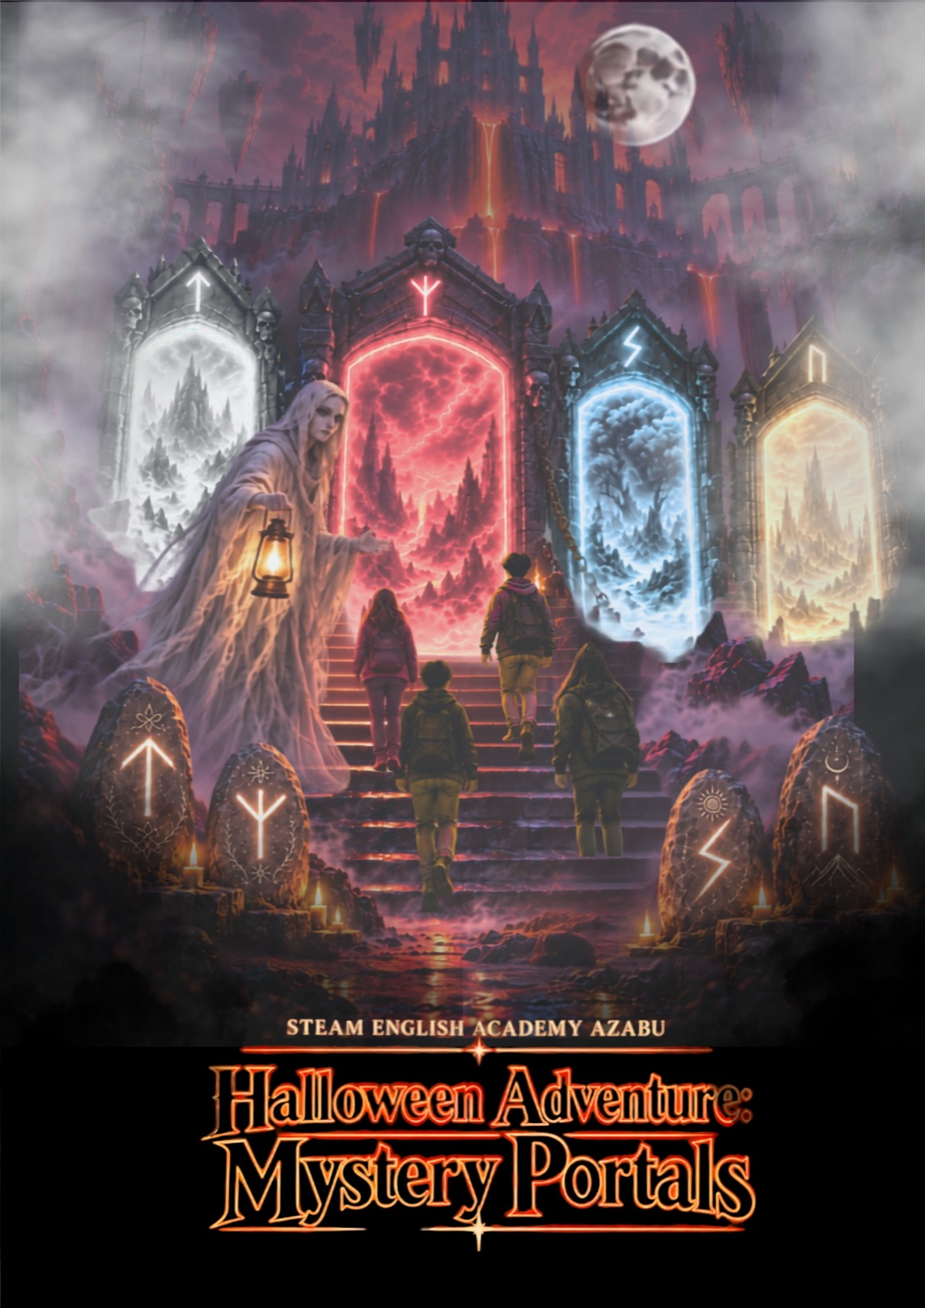
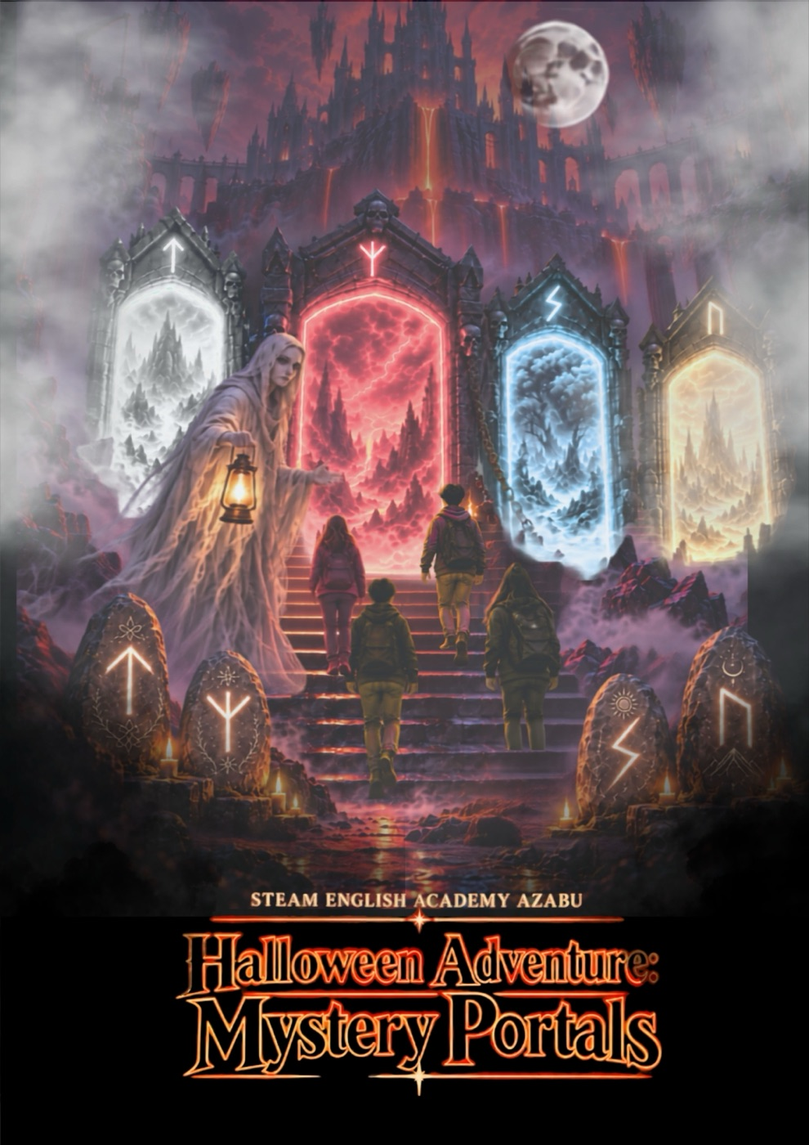
共有時の表示（OGP）を追加、書体の読み込みを削減、画像を軽量化

Changed region(s): [[0.2121, 0.7679, 0.8182, 0.9521], [0.4242, 0.7679, 0.4848, 0.7986], [0.7576, 0.6143, 0.7879, 0.645]]

diff --git a/docs/index.html b/docs/index.html
@@ -8,9 +8,17 @@
 <meta name="title-ja" content="REAL ACADEMY｜港区東麻布の英語教室・イギリス留学サポート">
 <meta name="title-en" content="REAL ACADEMY | English School & UK Study Support in Azabu, Tokyo">
 <meta name="description" content="麻布十番駅6番出口すぐ。STEAM English Academy、Scholars'、ボーディングスクール受験対策、イギリス留学総合サポートのREAL ACADEMY。">
+<meta property="og:type" content="website">
+<meta property="og:site_name" content="REAL ACADEMY">
+<meta property="og:locale" content="ja_JP">
+<meta property="og:title" content="REAL ACADEMY｜港区東麻布の英語教室・イギリス留学サポート">
+<meta property="og:description" content="麻布十番駅6番出口すぐ。STEAM English Academy、Scholars'、ボーディングスクール受験対策、イギリス留学総合サポートのREAL ACADEMY。">
+<meta property="og:url" content="https://noaruft.github.io/realacademy/">
+<meta property="og:image" content="https://noaruft.github.io/realacademy/assets/og-image.jpg">
+<meta name="twitter:card" content="summary_large_image">
 <link rel="preconnect" href="https://fonts.googleapis.com">
 <link rel="preconnect" href="https://fonts.gstatic.com" crossorigin>
-<link href="https://fonts.googleapis.com/css2?family=Cinzel:wght@500&family=Cormorant+Garamond:ital,wght@0,400;0,500;0,600;1,400;1,500&family=Jost:wght@300;400;500&family=Libre+Baskerville:ital,wght@0,400;0,700;1,400&family=Playfair+Display:ital,wght@1,400&family=Shippori+Mincho:wght@500;600&family=Zen+Kaku+Gothic+New:wght@400;500&display=swap" rel="stylesheet">
+<link href="https://fonts.googleapis.com/css2?family=Cinzel:wght@500&family=Cormorant+Garamond:ital,wght@0,400;0,500;1,400;1,500&family=Jost:wght@400;500&family=Libre+Baskerville&family=Playfair+Display:ital,wght@1,400&family=Shippori+Mincho:wght@500&family=Zen+Kaku+Gothic+New:wght@400;500&display=swap" rel="stylesheet">
 <link rel="stylesheet" href="assets/style.css?v=cf14d603">
 <link rel="icon" type="image/png" href="assets/favicon.png">
 <link rel="apple-touch-icon" href="assets/apple-touch-icon.png">
@@ -60,7 +68,7 @@
       </div>
       <div class="hero-visual reveal">
         <div data-photo="1" class="ph ph-main" data-label="Photo — classroom"></div>
-        <div data-photo="2" class="ph has-photo ph-sub warm" data-label="ロゴ（校章）" style="background:url('assets/photos/2.png') center / cover no-repeat;"></div>
+        <div data-photo="2" class="ph has-photo ph-sub warm" data-label="ロゴ（校章）" style="background:url('assets/photos/2.webp') center / cover no-repeat;"></div>
       </div>
     </div>
   </section>

diff --git a/docs/advanced.html b/docs/advanced.html
@@ -8,9 +8,17 @@
 <meta name="title-ja" content="Advanced Class（CEFR B1を目指す）｜Scholars'｜REAL ACADEMY">
 <meta name="title-en" content="Advanced Class (aiming for CEFR B1) | Scholars' | REAL ACADEMY">
 <meta name="description" content="英語で、知を深める。A2〜B1レベルの英文を読み解き、自分の意見を論理的に表現するScholars'のAdvanced Class。CEFR B1（英検2級相当）を目指すクラスです。">
+<meta property="og:type" content="website">
+<meta property="og:site_name" content="REAL ACADEMY">
+<meta property="og:locale" content="ja_JP">
+<meta property="og:title" content="Advanced Class（CEFR B1を目指す）｜Scholars'｜REAL ACADEMY">
+<meta property="og:description" content="英語で、知を深める。A2〜B1レベルの英文を読み解き、自分の意見を論理的に表現するScholars'のAdvanced Class。CEFR B1（英検2級相当）を目指すクラスです。">
+<meta property="og:url" content="https://noaruft.github.io/realacademy/advanced.html">
+<meta property="og:image" content="https://noaruft.github.io/realacademy/assets/og-image.jpg">
+<meta name="twitter:card" content="summary_large_image">
 <link rel="preconnect" href="https://fonts.googleapis.com">
 <link rel="preconnect" href="https://fonts.gstatic.com" crossorigin>
-<link href="https://fonts.googleapis.com/css2?family=Cinzel:wght@500&family=Cormorant+Garamond:ital,wght@0,400;0,500;0,600;1,400;1,500&family=Jost:wght@300;400;500&family=Libre+Baskerville:ital,wght@0,400;0,700;1,400&family=Playfair+Display:ital,wght@1,400&family=Shippori+Mincho:wght@500;600&family=Zen+Kaku+Gothic+New:wght@400;500&display=swap" rel="stylesheet">
+<link href="https://fonts.googleapis.com/css2?family=Cinzel:wght@500&family=Cormorant+Garamond:ital,wght@0,400;0,500;1,400;1,500&family=Jost:wght@400;500&family=Libre+Baskerville&family=Playfair+Display:ital,wght@1,400&family=Shippori+Mincho:wght@500&family=Zen+Kaku+Gothic+New:wght@400;500&display=swap" rel="stylesheet">
 <link rel="stylesheet" href="assets/style.css?v=cf14d603">
 <link rel="icon" type="image/png" href="assets/favicon.png">
 <link rel="apple-touch-icon" href="assets/apple-touch-icon.png">

diff --git a/docs/academic.html b/docs/academic.html
@@ -8,9 +8,17 @@
 <meta name="title-ja" content="Academic Class（CEFR A2を目指す）｜Scholars'｜REAL ACADEMY">
 <meta name="title-en" content="Academic Class (aiming for CEFR A2) | Scholars' | REAL ACADEMY">
 <meta name="description" content="英語を、深く学ぶ。語彙・文法・読解を体系的に学び、英語を仕組みから理解するScholars'のAcademic Class。CEFR A2（英検準2級相当）を目指すクラスです。">
+<meta property="og:type" content="website">
+<meta property="og:site_name" content="REAL ACADEMY">
+<meta property="og:locale" content="ja_JP">
+<meta property="og:title" content="Academic Class（CEFR A2を目指す）｜Scholars'｜REAL ACADEMY">
+<meta property="og:description" content="英語を、深く学ぶ。語彙・文法・読解を体系的に学び、英語を仕組みから理解するScholars'のAcademic Class。CEFR A2（英検準2級相当）を目指すクラスです。">
+<meta property="og:url" content="https://noaruft.github.io/realacademy/academic.html">
+<meta property="og:image" content="https://noaruft.github.io/realacademy/assets/og-image.jpg">
+<meta name="twitter:card" content="summary_large_image">
 <link rel="preconnect" href="https://fonts.googleapis.com">
 <link rel="preconnect" href="https://fonts.gstatic.com" crossorigin>
-<link href="https://fonts.googleapis.com/css2?family=Cinzel:wght@500&family=Cormorant+Garamond:ital,wght@0,400;0,500;0,600;1,400;1,500&family=Jost:wght@300;400;500&family=Libre+Baskerville:ital,wght@0,400;0,700;1,400&family=Playfair+Display:ital,wght@1,400&family=Shippori+Mincho:wght@500;600&family=Zen+Kaku+Gothic+New:wght@400;500&display=swap" rel="stylesheet">
+<link href="https://fonts.googleapis.com/css2?family=Cinzel:wght@500&family=Cormorant+Garamond:ital,wght@0,400;0,500;1,400;1,500&family=Jost:wght@400;500&family=Libre+Baskerville&family=Playfair+Display:ital,wght@1,400&family=Shippori+Mincho:wght@500&family=Zen+Kaku+Gothic+New:wght@400;500&display=swap" rel="stylesheet">
 <link rel="stylesheet" href="assets/style.css?v=cf14d603">
 <link rel="icon" type="image/png" href="assets/favicon.png">
 <link rel="apple-touch-icon" href="assets/apple-touch-icon.png">

diff --git a/docs/event-oxford-lse-2025.html b/docs/event-oxford-lse-2025.html
@@ -8,9 +8,17 @@
 <meta name="title-ja" content="特別対談：オックスフォード大学 & LSE 在籍生登壇｜イベント｜REAL ACADEMY">
 <meta name="title-en" content="Special Talk: Students from Oxford & LSE | Events | REAL ACADEMY">
 <meta name="description" content="特別対談：オックスフォード大学 & LSE 在籍生登壇（2025年12月20日（土）・REAL ACADEMY／STEAM English Academy 麻布校）のご案内。">
+<meta property="og:type" content="website">
+<meta property="og:site_name" content="REAL ACADEMY">
+<meta property="og:locale" content="ja_JP">
+<meta property="og:title" content="特別対談：オックスフォード大学 & LSE 在籍生登壇｜イベント｜REAL ACADEMY">
+<meta property="og:description" content="特別対談：オックスフォード大学 & LSE 在籍生登壇（2025年12月20日（土）・REAL ACADEMY／STEAM English Academy 麻布校）のご案内。">
+<meta property="og:url" content="https://noaruft.github.io/realacademy/event-oxford-lse-2025.html">
+<meta property="og:image" content="https://noaruft.github.io/realacademy/assets/og-image.jpg">
+<meta name="twitter:card" content="summary_large_image">
 <link rel="preconnect" href="https://fonts.googleapis.com">
 <link rel="preconnect" href="https://fonts.gstatic.com" crossorigin>
-<link href="https://fonts.googleapis.com/css2?family=Cinzel:wght@500&family=Cormorant+Garamond:ital,wght@0,400;0,500;0,600;1,400;1,500&family=Jost:wght@300;400;500&family=Libre+Baskerville:ital,wght@0,400;0,700;1,400&family=Playfair+Display:ital,wght@1,400&family=Shippori+Mincho:wght@500;600&family=Zen+Kaku+Gothic+New:wght@400;500&display=swap" rel="stylesheet">
+<link href="https://fonts.googleapis.com/css2?family=Cinzel:wght@500&family=Cormorant+Garamond:ital,wght@0,400;0,500;1,400;1,500&family=Jost:wght@400;500&family=Libre+Baskerville&family=Playfair+Display:ital,wght@1,400&family=Shippori+Mincho:wght@500&family=Zen+Kaku+Gothic+New:wght@400;500&display=swap" rel="stylesheet">
 <link rel="stylesheet" href="assets/style.css?v=cf14d603">
 <link rel="icon" type="image/png" href="assets/favicon.png">
 <link rel="apple-touch-icon" href="assets/apple-touch-icon.png">

diff --git a/docs/i-garten.html b/docs/i-garten.html
@@ -8,9 +8,17 @@
 <meta name="title-ja" content="i-GARTEN（年長〜小学生）｜STEAM English Academy｜REAL ACADEMY">
 <meta name="title-en" content="i-GARTEN (ages 5–12) | STEAM English Academy | REAL ACADEMY">
 <meta name="description" content="アルファベットの読み書きとフォニックスで英語の土台を。AR・VRを活用した体験型の学びで、年長〜小学生が楽しく能動的に学ぶi-GARTENコース。">
+<meta property="og:type" content="website">
+<meta property="og:site_name" content="REAL ACADEMY">
+<meta property="og:locale" content="ja_JP">
+<meta property="og:title" content="i-GARTEN（年長〜小学生）｜STEAM English Academy｜REAL ACADEMY">
+<meta property="og:description" content="アルファベットの読み書きとフォニックスで英語の土台を。AR・VRを活用した体験型の学びで、年長〜小学生が楽しく能動的に学ぶi-GARTENコース。">
+<meta property="og:url" content="https://noaruft.github.io/realacademy/i-garten.html">
+<meta property="og:image" content="https://noaruft.github.io/realacademy/assets/og-image.jpg">
+<meta name="twitter:card" content="summary_large_image">
 <link rel="preconnect" href="https://fonts.googleapis.com">
 <link rel="preconnect" href="https://fonts.gstatic.com" crossorigin>
-<link href="https://fonts.googleapis.com/css2?family=Cinzel:wght@500&family=Cormorant+Garamond:ital,wght@0,400;0,500;0,600;1,400;1,500&family=Jost:wght@300;400;500&family=Libre+Baskerville:ital,wght@0,400;0,700;1,400&family=Playfair+Display:ital,wght@1,400&family=Shippori+Mincho:wght@500;600&family=Zen+Kaku+Gothic+New:wght@400;500&display=swap" rel="stylesheet">
+<link href="https://fonts.googleapis.com/css2?family=Cinzel:wght@500&family=Cormorant+Garamond:ital,wght@0,400;0,500;1,400;1,500&family=Jost:wght@400;500&family=Libre+Baskerville&family=Playfair+Display:ital,wght@1,400&family=Shippori+Mincho:wght@500&family=Zen+Kaku+Gothic+New:wght@400;500&display=swap" rel="stylesheet">
 <link rel="stylesheet" href="assets/style.css?v=cf14d603">
 <link rel="icon" type="image/png" href="assets/favicon.png">
 <link rel="apple-touch-icon" href="assets/apple-touch-icon.png">

diff --git a/docs/april.html b/docs/april.html
@@ -8,9 +8,17 @@
 <meta name="title-ja" content="April（小学生〜高校生）｜STEAM English Academy｜REAL ACADEMY">
 <meta name="title-en" content="April (ages 6–18) | STEAM English Academy | REAL ACADEMY">
 <meta name="description" content="STEAMに準ずる120のトピックを英語「で」学ぶAprilコース。Project Based Learning、Reading→Speaking→Writing、CTP、家庭学習アプリi-Learning。">
+<meta property="og:type" content="website">
+<meta property="og:site_name" content="REAL ACADEMY">
+<meta property="og:locale" content="ja_JP">
+<meta property="og:title" content="April（小学生〜高校生）｜STEAM English Academy｜REAL ACADEMY">
+<meta property="og:description" content="STEAMに準ずる120のトピックを英語「で」学ぶAprilコース。Project Based Learning、Reading→Speaking→Writing、CTP、家庭学習アプリi-Learning。">
+<meta property="og:url" content="https://noaruft.github.io/realacademy/april.html">
+<meta property="og:image" content="https://noaruft.github.io/realacademy/assets/og-image.jpg">
+<meta name="twitter:card" content="summary_large_image">
 <link rel="preconnect" href="https://fonts.googleapis.com">
 <link rel="preconnect" href="https://fonts.gstatic.com" crossorigin>
-<link href="https://fonts.googleapis.com/css2?family=Cinzel:wght@500&family=Cormorant+Garamond:ital,wght@0,400;0,500;0,600;1,400;1,500&family=Jost:wght@300;400;500&family=Libre+Baskerville:ital,wght@0,400;0,700;1,400&family=Playfair+Display:ital,wght@1,400&family=Shippori+Mincho:wght@500;600&family=Zen+Kaku+Gothic+New:wght@400;500&display=swap" rel="stylesheet">
+<link href="https://fonts.googleapis.com/css2?family=Cinzel:wght@500&family=Cormorant+Garamond:ital,wght@0,400;0,500;1,400;1,500&family=Jost:wght@400;500&family=Libre+Baskerville&family=Playfair+Display:ital,wght@1,400&family=Shippori+Mincho:wght@500&family=Zen+Kaku+Gothic+New:wght@400;500&display=swap" rel="stylesheet">
 <link rel="stylesheet" href="assets/style.css?v=cf14d603">
 <link rel="icon" type="image/png" href="assets/favicon.png">
 <link rel="apple-touch-icon" href="assets/apple-touch-icon.png">

diff --git a/docs/boarding.html b/docs/boarding.html
@@ -8,9 +8,17 @@
 <meta name="title-ja" content="ボーディングスクール受験入学対策｜REAL ACADEMY">
 <meta name="title-en" content="Boarding School Entrance Prep | REAL ACADEMY">
 <meta name="description" content="国内外のボーディングスクール受験に向けて、UKiset・CAT4、面接、エッセイ対策を完全オーダーメイドのプライベートレッスンで。">
+<meta property="og:type" content="website">
+<meta property="og:site_name" content="REAL ACADEMY">
+<meta property="og:locale" content="ja_JP">
+<meta property="og:title" content="ボーディングスクール受験入学対策｜REAL ACADEMY">
+<meta property="og:description" content="国内外のボーディングスクール受験に向けて、UKiset・CAT4、面接、エッセイ対策を完全オーダーメイドのプライベートレッスンで。">
+<meta property="og:url" content="https://noaruft.github.io/realacademy/boarding.html">
+<meta property="og:image" content="https://noaruft.github.io/realacademy/assets/og-image.jpg">
+<meta name="twitter:card" content="summary_large_image">
 <link rel="preconnect" href="https://fonts.googleapis.com">
 <link rel="preconnect" href="https://fonts.gstatic.com" crossorigin>
-<link href="https://fonts.googleapis.com/css2?family=Cinzel:wght@500&family=Cormorant+Garamond:ital,wght@0,400;0,500;0,600;1,400;1,500&family=Jost:wght@300;400;500&family=Libre+Baskerville:ital,wght@0,400;0,700;1,400&family=Playfair+Display:ital,wght@1,400&family=Shippori+Mincho:wght@500;600&family=Zen+Kaku+Gothic+New:wght@400;500&display=swap" rel="stylesheet">
+<link href="https://fonts.googleapis.com/css2?family=Cinzel:wght@500&family=Cormorant+Garamond:ital,wght@0,400;0,500;1,400;1,500&family=Jost:wght@400;500&family=Libre+Baskerville&family=Playfair+Display:ital,wght@1,400&family=Shippori+Mincho:wght@500&family=Zen+Kaku+Gothic+New:wght@400;500&display=swap" rel="stylesheet">
 <link rel="stylesheet" href="assets/style.css?v=cf14d603">
 <link rel="icon" type="image/png" href="assets/favicon.png">
 <link rel="apple-touch-icon" href="assets/apple-touch-icon.png">

diff --git a/docs/scholars.html b/docs/scholars.html
@@ -8,9 +8,17 @@
 <meta name="title-ja" content="Scholars'｜REAL ACADEMY">
 <meta name="title-en" content="Scholars' | REAL ACADEMY">
 <meta name="description" content="英語を、学問する。バイリンガル講師のReading & Grammarとネイティブ講師のWriting & Speakingで、確かな英語力と論理的に考え表現する力を育てるScholars'（2027年度開講）。">
+<meta property="og:type" content="website">
+<meta property="og:site_name" content="REAL ACADEMY">
+<meta property="og:locale" content="ja_JP">
+<meta property="og:title" content="Scholars'｜REAL ACADEMY">
+<meta property="og:description" content="英語を、学問する。バイリンガル講師のReading & Grammarとネイティブ講師のWriting & Speakingで、確かな英語力と論理的に考え表現する力を育てるScholars'（2027年度開講）。">
+<meta property="og:url" content="https://noaruft.github.io/realacademy/scholars.html">
+<meta property="og:image" content="https://noaruft.github.io/realacademy/assets/og-image.jpg">
+<meta name="twitter:card" content="summary_large_image">
 <link rel="preconnect" href="https://fonts.googleapis.com">
 <link rel="preconnect" href="https://fonts.gstatic.com" crossorigin>
-<link href="https://fonts.googleapis.com/css2?family=Cinzel:wght@500&family=Cormorant+Garamond:ital,wght@0,400;0,500;0,600;1,400;1,500&family=Jost:wght@300;400;500&family=Libre+Baskerville:ital,wght@0,400;0,700;1,400&family=Playfair+Display:ital,wght@1,400&family=Shippori+Mincho:wght@500;600&family=Zen+Kaku+Gothic+New:wght@400;500&display=swap" rel="stylesheet">
+<link href="https://fonts.googleapis.com/css2?family=Cinzel:wght@500&family=Cormorant+Garamond:ital,wght@0,400;0,500;1,400;1,500&family=Jost:wght@400;500&family=Libre+Baskerville&family=Playfair+Display:ital,wght@1,400&family=Shippori+Mincho:wght@500&family=Zen+Kaku+Gothic+New:wght@400;500&display=swap" rel="stylesheet">
 <link rel="stylesheet" href="assets/style.css?v=cf14d603">
 <link rel="icon" type="image/png" href="assets/favicon.png">
 <link rel="apple-touch-icon" href="assets/apple-touch-icon.png">

diff --git a/docs/uk-study.html b/docs/uk-study.html
@@ -8,9 +8,17 @@
 <meta name="title-ja" content="イギリス留学総合サポート｜REAL ACADEMY">
 <meta name="title-en" content="UK Study Support | REAL ACADEMY">
 <meta name="description" content="学校選び・出願・英語力強化・エッセイや面接対策・合格まで。イギリスのボーディングスクール留学をワンストップでサポートします。">
+<meta property="og:type" content="website">
+<meta property="og:site_name" content="REAL ACADEMY">
+<meta property="og:locale" content="ja_JP">
+<meta property="og:title" content="イギリス留学総合サポート｜REAL ACADEMY">
+<meta property="og:description" content="学校選び・出願・英語力強化・エッセイや面接対策・合格まで。イギリスのボーディングスクール留学をワンストップでサポートします。">
+<meta property="og:url" content="https://noaruft.github.io/realacademy/uk-study.html">
+<meta property="og:image" content="https://noaruft.github.io/realacademy/assets/og-image.jpg">
+<meta name="twitter:card" content="summary_large_image">
 <link rel="preconnect" href="https://fonts.googleapis.com">
 <link rel="preconnect" href="https://fonts.gstatic.com" crossorigin>
-<link href="https://fonts.googleapis.com/css2?family=Cinzel:wght@500&family=Cormorant+Garamond:ital,wght@0,400;0,500;0,600;1,400;1,500&family=Jost:wght@300;400;500&family=Libre+Baskerville:ital,wght@0,400;0,700;1,400&family=Playfair+Display:ital,wght@1,400&family=Shippori+Mincho:wght@500;600&family=Zen+Kaku+Gothic+New:wght@400;500&display=swap" rel="stylesheet">
+<link href="https://fonts.googleapis.com/css2?family=Cinzel:wght@500&family=Cormorant+Garamond:ital,wght@0,400;0,500;1,400;1,500&family=Jost:wght@400;500&family=Libre+Baskerville&family=Playfair+Display:ital,wght@1,400&family=Shippori+Mincho:wght@500&family=Zen+Kaku+Gothic+New:wght@400;500&display=swap" rel="stylesheet">
 <link rel="stylesheet" href="assets/style.css?v=cf14d603">
 <link rel="icon" type="image/png" href="assets/favicon.png">
 <link rel="apple-touch-icon" href="assets/apple-touch-icon.png">

diff --git a/docs/news-uk-summer-2025.html b/docs/news-uk-summer-2025.html
@@ -8,9 +8,17 @@
 <meta name="title-ja" content="イギリスサマースクール2025のご案内｜お知らせ｜REAL ACADEMY">
 <meta name="title-en" content="UK Summer School 2025 | News | REAL ACADEMY">
 <meta name="description" content="イギリスの名門ボーディングスクールで開催するサマースクール2025（6〜18歳、1週間単位）のご案内。">
+<meta property="og:type" content="website">
+<meta property="og:site_name" content="REAL ACADEMY">
+<meta property="og:locale" content="ja_JP">
+<meta property="og:title" content="イギリスサマースクール2025のご案内｜お知らせ｜REAL ACADEMY">
+<meta property="og:description" content="イギリスの名門ボーディングスクールで開催するサマースクール2025（6〜18歳、1週間単位）のご案内。">
+<meta property="og:url" content="https://noaruft.github.io/realacademy/news-uk-summer-2025.html">
+<meta property="og:image" content="https://noaruft.github.io/realacademy/assets/og-image.jpg">
+<meta name="twitter:card" content="summary_large_image">
 <link rel="preconnect" href="https://fonts.googleapis.com">
 <link rel="preconnect" href="https://fonts.gstatic.com" crossorigin>
-<link href="https://fonts.googleapis.com/css2?family=Cinzel:wght@500&family=Cormorant+Garamond:ital,wght@0,400;0,500;0,600;1,400;1,500&family=Jost:wght@300;400;500&family=Libre+Baskerville:ital,wght@0,400;0,700;1,400&family=Playfair+Display:ital,wght@1,400&family=Shippori+Mincho:wght@500;600&family=Zen+Kaku+Gothic+New:wght@400;500&display=swap" rel="stylesheet">
+<link href="https://fonts.googleapis.com/css2?family=Cinzel:wght@500&family=Cormorant+Garamond:ital,wght@0,400;0,500;1,400;1,500&family=Jost:wght@400;500&family=Libre+Baskerville&family=Playfair+Display:ital,wght@1,400&family=Shippori+Mincho:wght@500&family=Zen+Kaku+Gothic+New:wght@400;500&display=swap" rel="stylesheet">
 <link rel="stylesheet" href="assets/style.css?v=cf14d603">
 <link rel="icon" type="image/png" href="assets/favicon.png">
 <link rel="apple-touch-icon" href="assets/apple-touch-icon.png">

diff --git a/docs/news-toefl-2025.html b/docs/news-toefl-2025.html
@@ -8,9 +8,17 @@
 <meta name="title-ja" content="第3回TOEFLテストのご案内｜お知らせ｜REAL ACADEMY">
 <meta name="title-en" content="TOEFL Primary / Junior tests 2025 | News | REAL ACADEMY">
 <meta name="description" content="STEAM English Academy 麻布校で実施するTOEFLテスト（第3回・第4回）のご案内。当校生徒以外でも受験可能です。">
+<meta property="og:type" content="website">
+<meta property="og:site_name" content="REAL ACADEMY">
+<meta property="og:locale" content="ja_JP">
+<meta property="og:title" content="第3回TOEFLテストのご案内｜お知らせ｜REAL ACADEMY">
+<meta property="og:description" content="STEAM English Academy 麻布校で実施するTOEFLテスト（第3回・第4回）のご案内。当校生徒以外でも受験可能です。">
+<meta property="og:url" content="https://noaruft.github.io/realacademy/news-toefl-2025.html">
+<meta property="og:image" content="https://noaruft.github.io/realacademy/assets/og-image.jpg">
+<meta name="twitter:card" content="summary_large_image">
 <link rel="preconnect" href="https://fonts.googleapis.com">
 <link rel="preconnect" href="https://fonts.gstatic.com" crossorigin>
-<link href="https://fonts.googleapis.com/css2?family=Cinzel:wght@500&family=Cormorant+Garamond:ital,wght@0,400;0,500;0,600;1,400;1,500&family=Jost:wght@300;400;500&family=Libre+Baskerville:ital,wght@0,400;0,700;1,400&family=Playfair+Display:ital,wght@1,400&family=Shippori+Mincho:wght@500;600&family=Zen+Kaku+Gothic+New:wght@400;500&display=swap" rel="stylesheet">
+<link href="https://fonts.googleapis.com/css2?family=Cinzel:wght@500&family=Cormorant+Garamond:ital,wght@0,400;0,500;1,400;1,500&family=Jost:wght@400;500&family=Libre+Baskerville&family=Playfair+Display:ital,wght@1,400&family=Shippori+Mincho:wght@500&family=Zen+Kaku+Gothic+New:wght@400;500&display=swap" rel="stylesheet">
 <link rel="stylesheet" href="assets/style.css?v=cf14d603">
 <link rel="icon" type="image/png" href="assets/favicon.png">
 <link rel="apple-touch-icon" href="assets/apple-touch-icon.png">

diff --git a/docs/event-winter-2023.html b/docs/event-winter-2023.html
@@ -8,9 +8,17 @@
 <meta name="title-ja" content="A MERRY HOHOHO! WINTER PROGRAM 2023 🎄｜イベント｜REAL ACADEMY">
 <meta name="title-en" content="A MERRY HOHOHO! WINTER PROGRAM 2023 🎄 | Events | REAL ACADEMY">
 <meta name="description" content="A MERRY HOHOHO! WINTER PROGRAM 2023 🎄（2023年12月25日（月）〜27日（水）・STEAM English Academy）のご案内。">
+<meta property="og:type" content="website">
+<meta property="og:site_name" content="REAL ACADEMY">
+<meta property="og:locale" content="ja_JP">
+<meta property="og:title" content="A MERRY HOHOHO! WINTER PROGRAM 2023 🎄｜イベント｜REAL ACADEMY">
+<meta property="og:description" content="A MERRY HOHOHO! WINTER PROGRAM 2023 🎄（2023年12月25日（月）〜27日（水）・STEAM English Academy）のご案内。">
+<meta property="og:url" content="https://noaruft.github.io/realacademy/event-winter-2023.html">
+<meta property="og:image" content="https://noaruft.github.io/realacademy/assets/og-image.jpg">
+<meta name="twitter:card" content="summary_large_image">
 <link rel="preconnect" href="https://fonts.googleapis.com">
 <link rel="preconnect" href="https://fonts.gstatic.com" crossorigin>
-<link href="https://fonts.googleapis.com/css2?family=Cinzel:wght@500&family=Cormorant+Garamond:ital,wght@0,400;0,500;0,600;1,400;1,500&family=Jost:wght@300;400;500&family=Libre+Baskerville:ital,wght@0,400;0,700;1,400&family=Playfair+Display:ital,wght@1,400&family=Shippori+Mincho:wght@500;600&family=Zen+Kaku+Gothic+New:wght@400;500&display=swap" rel="stylesheet">
+<link href="https://fonts.googleapis.com/css2?family=Cinzel:wght@500&family=Cormorant+Garamond:ital,wght@0,400;0,500;1,400;1,500&family=Jost:wght@400;500&family=Libre+Baskerville&family=Playfair+Display:ital,wght@1,400&family=Shippori+Mincho:wght@500&family=Zen+Kaku+Gothic+New:wght@400;500&display=swap" rel="stylesheet">
 <link rel="stylesheet" href="assets/style.css?v=cf14d603">
 <link rel="icon" type="image/png" href="assets/favicon.png">
 <link rel="apple-touch-icon" href="assets/apple-touch-icon.png">
